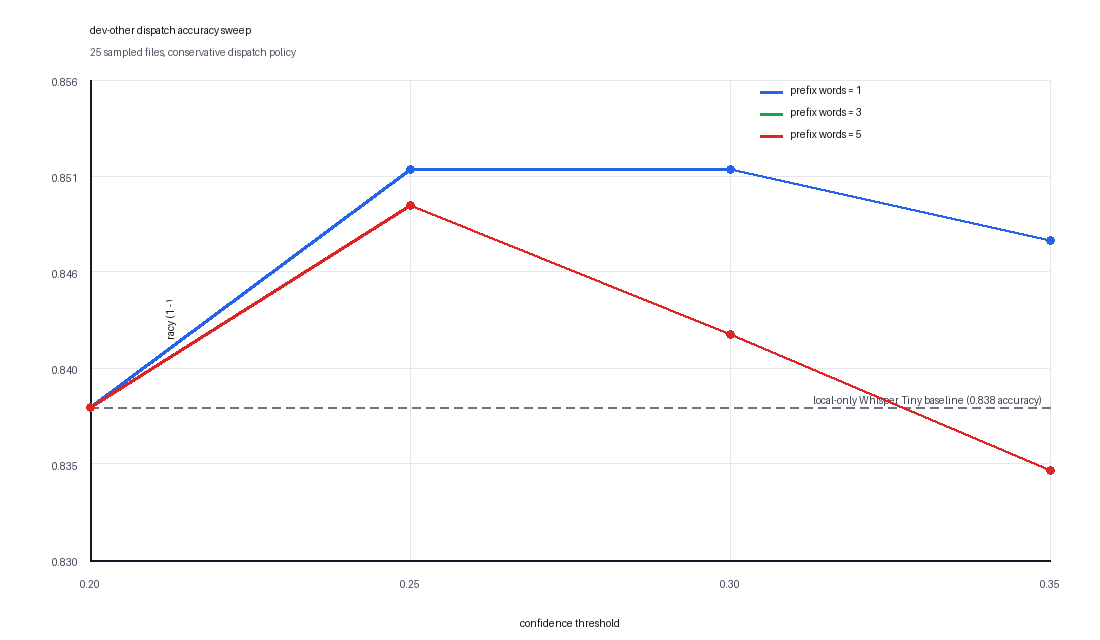
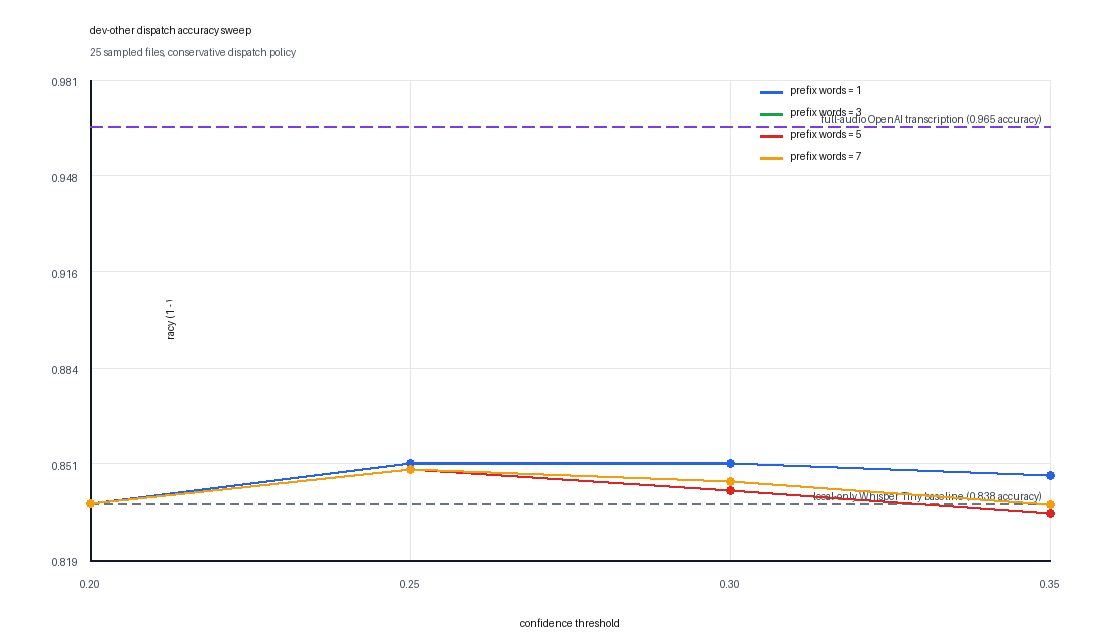
Add full API reference and prefix-7 sweep
Compare the selective dispatch sweep against a full-audio OpenAI transcription reference and extend the prefix-word sweep to include 7-word prompts in the generated benchmark plots.

Made-with: Cursor

diff --git a/scripts/sweep_dispatch_thresholds.py b/scripts/sweep_dispatch_thresholds.py
@@ -77,6 +77,7 @@ def build_plot_spec(
     thresholds: list[float],
     series: dict[str, list[float]],
     baseline: float,
+    extra_values: list[float] | None = None,
 ) -> dict:
     width = 1100
     height = 640
@@ -88,6 +89,8 @@ def build_plot_spec(
     plot_height = height - margin_top - margin_bottom
 
     all_values = [baseline]
+    if extra_values:
+        all_values.extend(extra_values)
     for values in series.values():
         all_values.extend(values)
     y_min = min(all_values)
@@ -129,12 +132,17 @@ def render_svg_plot(
     subtitle: str,
     thresholds: list[float],
     series: dict[str, list[float]],
-    baseline: float,
-    baseline_label: str,
+    references: list[dict],
     y_label: str,
     output_path: Path,
 ) -> None:
-    spec = build_plot_spec(thresholds=thresholds, series=series, baseline=baseline)
+    reference_values = [float(item["value"]) for item in references]
+    spec = build_plot_spec(
+        thresholds=thresholds,
+        series=series,
+        baseline=min(reference_values) if reference_values else 0.0,
+        extra_values=reference_values,
+    )
     width = spec["width"]
     height = spec["height"]
     margin_left = spec["margin_left"]
@@ -152,6 +160,7 @@ def render_svg_plot(
         "1": "#2563eb",
         "3": "#16a34a",
         "5": "#dc2626",
+        "7": "#f59e0b",
     }
 
     svg_parts = [
@@ -184,14 +193,17 @@ def render_svg_plot(
     svg_parts.append(f"<line class='axis' x1='{margin_left}' y1='{height - margin_bottom}' x2='{width - margin_right}' y2='{height - margin_bottom}' />")
     svg_parts.append(f"<line class='axis' x1='{margin_left}' y1='{margin_top}' x2='{margin_left}' y2='{height - margin_bottom}' />")
 
-    baseline_y = y_pos(baseline)
-    svg_parts.append(
-        f"<line x1='{margin_left}' y1='{baseline_y:.2f}' x2='{width - margin_right}' y2='{baseline_y:.2f}' "
-        "stroke='#6b7280' stroke-width='2' stroke-dasharray='8 6' />"
-    )
-    svg_parts.append(
-        f"<text class='legend' x='{width - margin_right - 8}' y='{baseline_y - 8:.2f}' text-anchor='end'>{baseline_label}</text>"
-    )
+    for reference in references:
+        reference_y = y_pos(float(reference["value"]))
+        reference_color = reference.get("color", "#6b7280")
+        reference_dash = reference.get("dasharray", "8 6")
+        svg_parts.append(
+            f"<line x1='{margin_left}' y1='{reference_y:.2f}' x2='{width - margin_right}' y2='{reference_y:.2f}' "
+            f"stroke='{reference_color}' stroke-width='2' stroke-dasharray='{reference_dash}' />"
+        )
+        svg_parts.append(
+            f"<text class='legend' x='{width - margin_right - 8}' y='{reference_y - 8:.2f}' text-anchor='end'>{reference['label']}</text>"
+        )
 
     legend_y = margin_top + 12
     legend_x = width - margin_right - 290
@@ -226,12 +238,17 @@ def render_png_plot(
     subtitle: str,
     thresholds: list[float],
     series: dict[str, list[float]],
-    baseline: float,
-    baseline_label: str,
+    references: list[dict],
     y_label: str,
     output_path: Path,
 ) -> None:
-    spec = build_plot_spec(thresholds=thresholds, series=series, baseline=baseline)
+    reference_values = [float(item["value"]) for item in references]
+    spec = build_plot_spec(
+        thresholds=thresholds,
+        series=series,
+        baseline=min(reference_values) if reference_values else 0.0,
+        extra_values=reference_values,
+    )
     width = spec["width"]
     height = spec["height"]
     margin_left = spec["margin_left"]
@@ -249,6 +266,7 @@ def render_png_plot(
         "1": "#2563eb",
         "3": "#16a34a",
         "5": "#dc2626",
+        "7": "#f59e0b",
     }
 
     image = Image.new("RGB", (width, height), "white")
@@ -293,15 +311,28 @@ def render_png_plot(
     draw.line((margin_left, height - margin_bottom, width - margin_right, height - margin_bottom), fill="#111827", width=2)
     draw.line((margin_left, margin_top, margin_left, height - margin_bottom), fill="#111827", width=2)
 
-    baseline_y = y_pos(baseline)
-    draw_dashed_line(
-        margin_left,
-        baseline_y,
-        width - margin_right,
-        baseline_y,
-        fill="#6b7280",
-    )
-    draw_right_aligned_text(width - margin_right - 8, baseline_y - 8, baseline_label, body_font, "#374151")
+    for reference in references:
+        reference_y = y_pos(float(reference["value"]))
+        reference_color = reference.get("color", "#6b7280")
+        dash_values = [int(part) for part in str(reference.get("dasharray", "8 6")).split()]
+        dash = dash_values[0] if dash_values else 8
+        gap = dash_values[1] if len(dash_values) > 1 else 6
+        draw_dashed_line(
+            margin_left,
+            reference_y,
+            width - margin_right,
+            reference_y,
+            fill=reference_color,
+            dash=dash,
+            gap=gap,
+        )
+        draw_right_aligned_text(
+            width - margin_right - 8,
+            reference_y - 8,
+            reference["label"],
+            body_font,
+            "#374151",
+        )
 
     legend_y = margin_top + 12
     legend_x = width - margin_right - 290
@@ -376,6 +407,11 @@ def main() -> int:
         help="Use an existing sweep summary to render plots without rerunning benchmarks",
     )
     parser.add_argument(
+        "--full-api-json",
+        type=Path,
+        help="Optional JSON benchmark for full-audio OpenAI transcription reference",
+    )
+    parser.add_argument(
         "--output-dir",
         type=Path,
         default=REPO_ROOT / "results" / "dispatch-sweep",
@@ -439,18 +475,68 @@ def main() -> int:
         }
         save_json(output_dir / "summary.json", payload)
 
+    if args.full_api_json is not None:
+        with open(args.full_api_json, "r", encoding="utf-8") as handle:
+            full_api_payload = json.load(handle)
+        avg_full_api_wer = float(full_api_payload["summary"]["avg_full_api_wer"])
+        payload["full_api_reference"] = {
+            "avg_full_api_wer": round(avg_full_api_wer, 6),
+            "full_api_accuracy": round(1.0 - avg_full_api_wer, 6),
+            "local_minus_full_api_wer": 0.0,
+            "source_json": str(args.full_api_json.resolve()),
+        }
+
     thresholds, prefix_words_list, summaries, grouped_accuracy, grouped_improvement, local_baseline_accuracy = build_grouped_series(payload)
+    if payload.get("full_api_reference"):
+        payload["full_api_reference"]["local_minus_full_api_wer"] = round(
+            local_baseline_accuracy - (1.0 - float(payload["full_api_reference"]["avg_full_api_wer"])),
+            6,
+        )
     subset = payload["subset"]
     max_files = int(payload["max_files"])
-    baseline_label = f"local-only Whisper Tiny baseline ({local_baseline_accuracy:.3f} accuracy)"
+    accuracy_references = [
+        {
+            "label": f"local-only Whisper Tiny baseline ({local_baseline_accuracy:.3f} accuracy)",
+            "value": local_baseline_accuracy,
+            "color": "#6b7280",
+            "dasharray": "8 6",
+        }
+    ]
+    improvement_references = [
+        {
+            "label": "local-only baseline reference (0.000 improvement)",
+            "value": 0.0,
+            "color": "#6b7280",
+            "dasharray": "8 6",
+        }
+    ]
+    if payload.get("full_api_reference"):
+        full_api_wer = float(payload["full_api_reference"]["avg_full_api_wer"])
+        full_api_accuracy = 1.0 - full_api_wer
+        full_api_improvement = float(payload["full_api_reference"]["local_minus_full_api_wer"])
+        accuracy_references.append(
+            {
+                "label": f"full-audio OpenAI transcription ({full_api_accuracy:.3f} accuracy)",
+                "value": full_api_accuracy,
+                "color": "#7c3aed",
+                "dasharray": "12 6",
+            }
+        )
+        improvement_references.append(
+            {
+                "label": f"full-audio OpenAI transcription ({full_api_improvement:.3f} improvement)",
+                "value": full_api_improvement,
+                "color": "#7c3aed",
+                "dasharray": "12 6",
+            }
+        )
 
     render_svg_plot(
         title=f"{subset} dispatch accuracy sweep",
         subtitle=f"{max_files} sampled files, conservative dispatch policy",
         thresholds=thresholds,
         series=grouped_accuracy,
-        baseline=local_baseline_accuracy,
-        baseline_label=baseline_label,
+        references=accuracy_references,
         y_label="accuracy (1 - WER)",
         output_path=output_dir / "dispatch-accuracy-sweep.svg",
     )
@@ -459,8 +545,7 @@ def main() -> int:
         subtitle=f"{max_files} sampled files, conservative dispatch policy",
         thresholds=thresholds,
         series=grouped_accuracy,
-        baseline=local_baseline_accuracy,
-        baseline_label=baseline_label,
+        references=accuracy_references,
         y_label="accuracy (1 - WER)",
         output_path=output_dir / "dispatch-accuracy-sweep.png",
     )
@@ -469,8 +554,7 @@ def main() -> int:
         subtitle=f"{max_files} sampled files, conservative dispatch policy",
         thresholds=thresholds,
         series=grouped_improvement,
-        baseline=0.0,
-        baseline_label="local-only baseline reference (0.000 improvement)",
+        references=improvement_references,
         y_label="WER improvement over local baseline",
         output_path=output_dir / "dispatch-improvement-sweep.svg",
     )
@@ -479,8 +563,7 @@ def main() -> int:
         subtitle=f"{max_files} sampled files, conservative dispatch policy",
         thresholds=thresholds,
         series=grouped_improvement,
-        baseline=0.0,
-        baseline_label="local-only baseline reference (0.000 improvement)",
+        references=improvement_references,
         y_label="WER improvement over local baseline",
         output_path=output_dir / "dispatch-improvement-sweep.png",
     )

diff --git a/scripts/benchmark_librispeech_full_api.py b/scripts/benchmark_librispeech_full_api.py
@@ -1,0 +1,98 @@
+#!/usr/bin/env python3
+"""Benchmark full-audio OpenAI transcription on LibriSpeech."""
+
+from __future__ import annotations
+
+import argparse
+import json
+import sys
+import time
+from pathlib import Path
+
+REPO_ROOT = Path(__file__).resolve().parents[1]
+if str(REPO_ROOT) not in sys.path:
+    sys.path.insert(0, str(REPO_ROOT))
+
+from confidence_dispatch.dispatch import dispatch_with_openai
+from scripts.benchmark_librispeech_dispatch import _iter_librispeech_items, _resolve_subset_root, _wer
+
+
+def main() -> int:
+    parser = argparse.ArgumentParser(description="Benchmark full-audio OpenAI transcription on LibriSpeech")
+    parser.add_argument("--input", type=Path, required=True, help="Path to LibriSpeech root or subset directory")
+    parser.add_argument("--subset", default="dev-other", help="LibriSpeech subset to benchmark")
+    parser.add_argument("--max-files", type=int, default=25, help="Maximum number of files to benchmark")
+    parser.add_argument("--seed", type=int, default=0, help="Sampling seed; must match comparison runs")
+    parser.add_argument("--language", default="en", help="Language hint passed to OpenAI")
+    parser.add_argument("--openai-model", default="whisper-1", help="OpenAI transcription model")
+    parser.add_argument(
+        "--output",
+        type=Path,
+        default=REPO_ROOT / "results" / "benchmark-dev-other-full-api.json",
+        help="Output JSON file",
+    )
+    args = parser.parse_args()
+
+    subset_root = _resolve_subset_root(args.input, args.subset)
+    items = list(_iter_librispeech_items(subset_root))
+    if not items:
+        print(f"Error: no LibriSpeech utterances found under {subset_root}", file=sys.stderr)
+        return 1
+
+    if args.max_files and len(items) > args.max_files:
+        import random
+
+        rng = random.Random(args.seed)
+        items = rng.sample(items, args.max_files)
+        items.sort(key=lambda item: item["utterance_id"])
+
+    results = []
+    for index, item in enumerate(items, start=1):
+        print(f"[{index}/{len(items)}] {item['utterance_id']}")
+        start = time.perf_counter()
+        transcript = dispatch_with_openai(
+            item["audio_path"],
+            args.language,
+            args.openai_model,
+        )
+        wall_sec = time.perf_counter() - start
+        results.append(
+            {
+                "utterance_id": item["utterance_id"],
+                "audio_path": str(item["audio_path"]),
+                "reference": item["reference"],
+                "full_api_transcript": transcript,
+                "full_api_wer": round(_wer(item["reference"], transcript), 6),
+                "full_api_wall_sec": round(wall_sec, 3),
+            }
+        )
+
+    avg_full_api_wer = round(sum(item["full_api_wer"] for item in results) / len(results), 6)
+    payload = {
+        "input": str(args.input.resolve()),
+        "subset_root": str(subset_root),
+        "subset": args.subset,
+        "max_files": len(results),
+        "seed": args.seed,
+        "language": args.language,
+        "openai_model": args.openai_model,
+        "summary": {
+            "files": len(results),
+            "avg_full_api_wer": avg_full_api_wer,
+            "full_api_accuracy": round(1.0 - avg_full_api_wer, 6),
+            "total_full_api_wall_sec": round(sum(item["full_api_wall_sec"] for item in results), 3),
+        },
+        "files": results,
+    }
+
+    args.output.parent.mkdir(parents=True, exist_ok=True)
+    with open(args.output.resolve(), "w", encoding="utf-8") as handle:
+        json.dump(payload, handle, indent=2, ensure_ascii=False)
+
+    print(f"Wrote {args.output.resolve()}")
+    print(json.dumps(payload["summary"], indent=2))
+    return 0
+
+
+if __name__ == "__main__":
+    raise SystemExit(main())

diff --git a/README.md b/README.md
@@ -14,8 +14,10 @@ I ran a threshold and prompt-prefix sweep on a 25-file sample from LibriSpeech `
 - best dispatched WER: `0.148618`
 - best observed improvement: `0.013333` absolute WER
 - best settings in this sweep: `--threshold 0.25` or `--threshold 0.30` with `--prompt-prefix-words 1`
+- full-audio OpenAI WER on the same 25-file sample: `0.034962`
 
-The dashed baseline in the first plot is the plain local Whisper Tiny run with no OpenAI fallback.
+The gray dashed line is the plain local Whisper Tiny run with no OpenAI fallback.
+The purple dashed line is the result of sending the entire audio file through the OpenAI API, included as a reference comparison rather than a baseline.
 
 Accuracy vs. threshold, with the local-only baseline shown explicitly:
 
